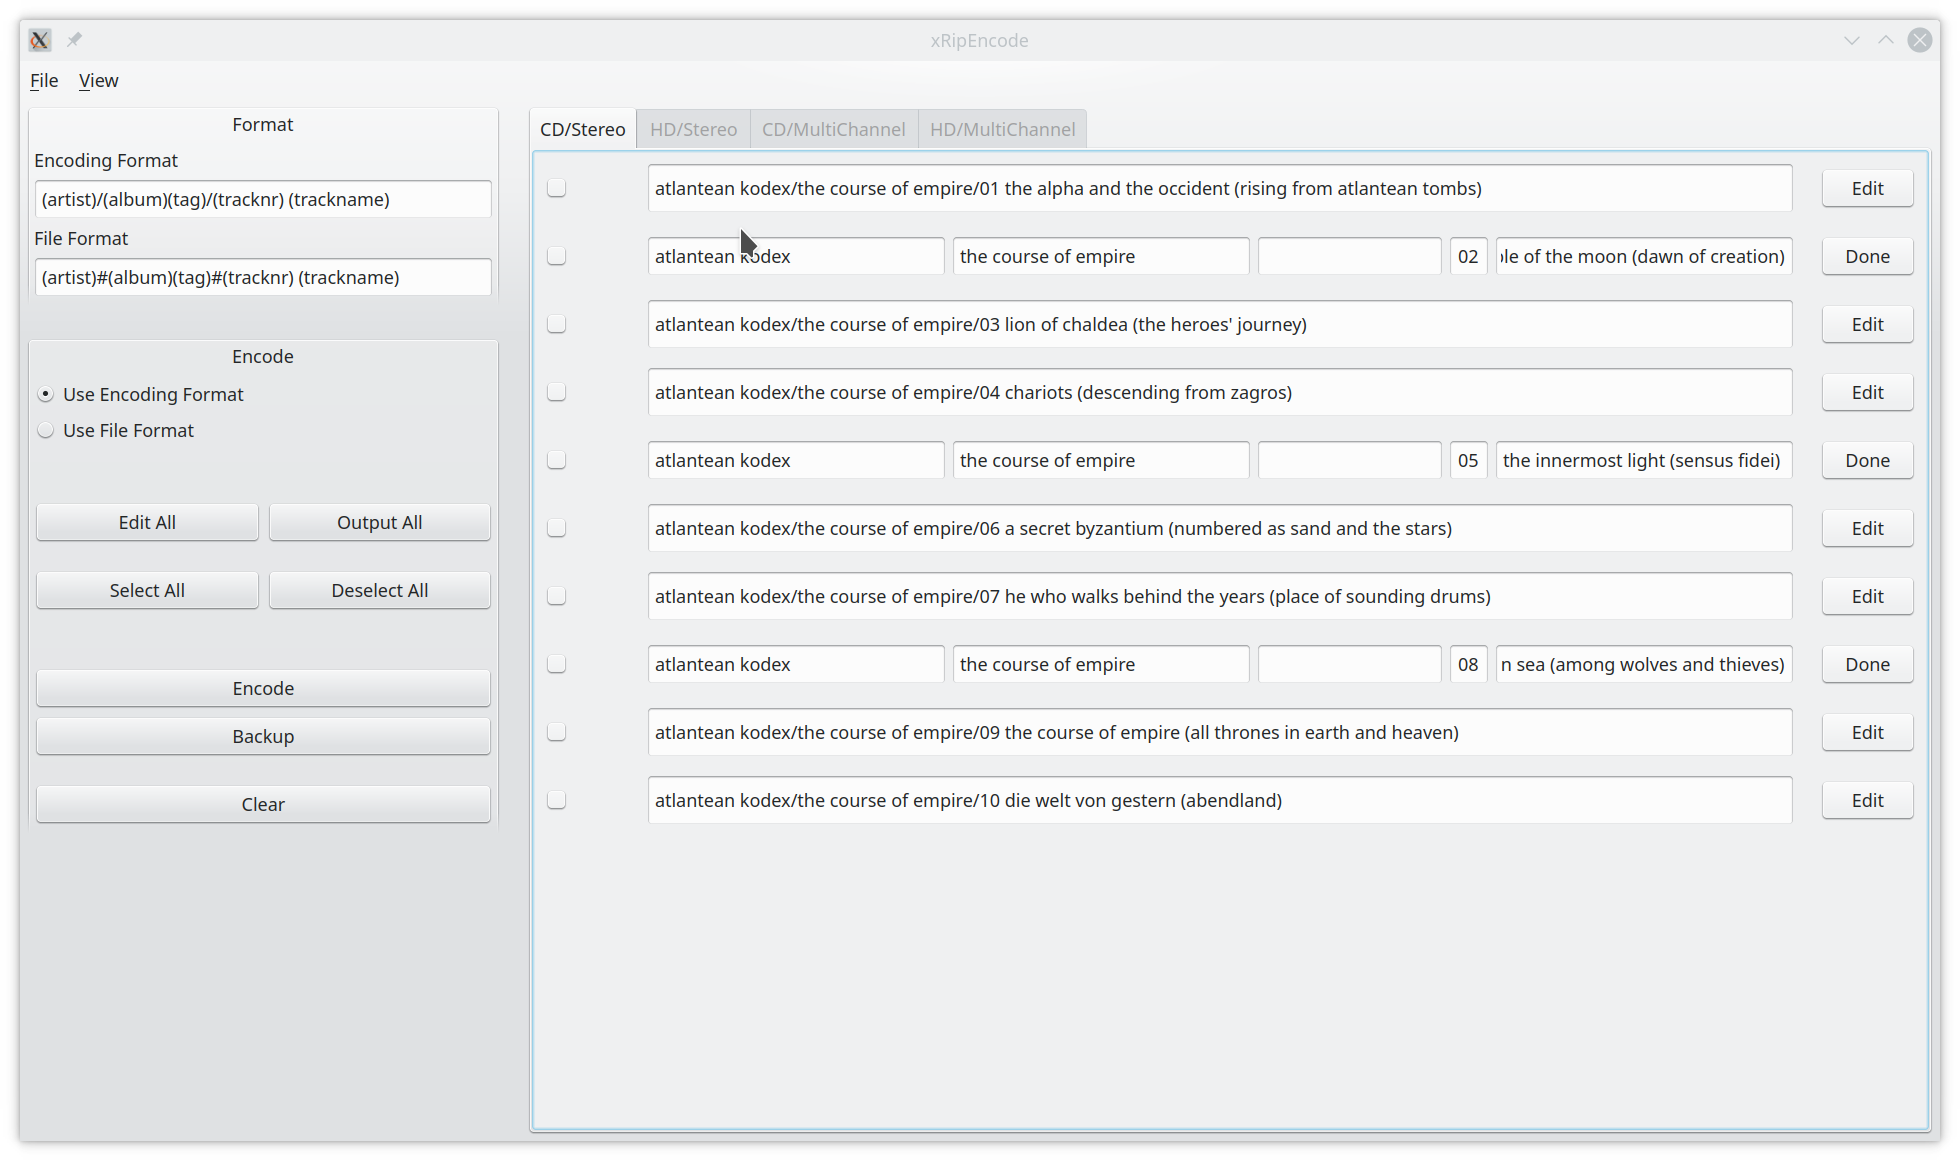
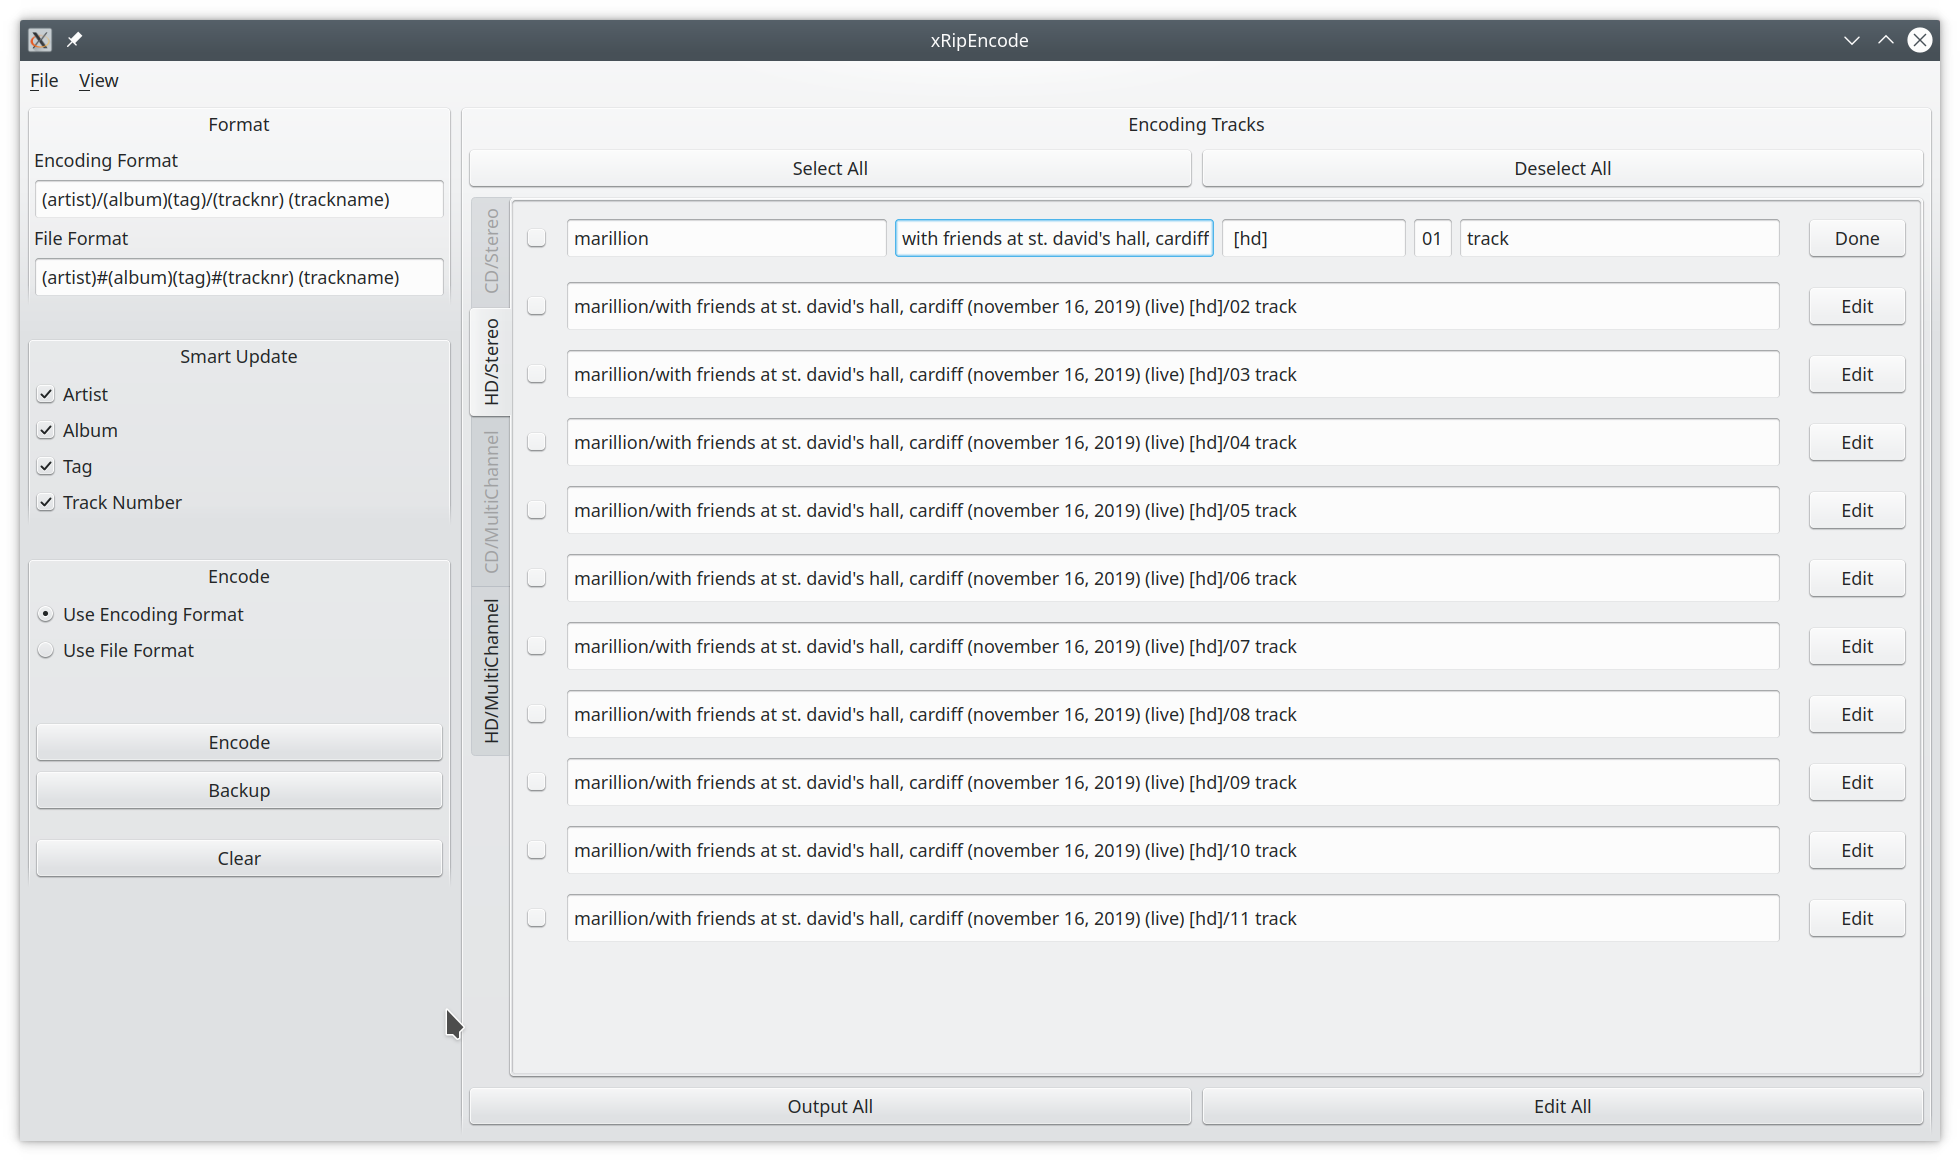
Update README, CHANGELOG and screenshots.

diff --git a/README.md b/README.md
@@ -11,7 +11,7 @@ encoding view.
 ## Audio CD View
 
 ![Screenshot Audio CD View](screenshots/xripencode_screenshot_audiocd_view_00.png)
-![Screenshot Audio CD View](screenshots/xripencode_screenshot_audiocd_view_01.png)
+![Screenshot Audio CD View (ripping)](screenshots/xripencode_screenshot_audiocd_view_01.png)
 
 The main screen of the audio CD view is simple audio CD ripper. Any audio CD in the system is detected 
 when pushing the *Detect* button. An automatic musicbrainz lookup is performed. This lookup can be repeated
@@ -26,7 +26,7 @@ be used to eject the audio CD.
 ## Movie File View
 
 ![Screenshot Encoding View](screenshots/xripencode_screenshot_moviefile_view_00.png)
-![Screenshot Encoding View](screenshots/xripencode_screenshot_moviefile_view_01.png)
+![Screenshot Encoding View (ripping)](screenshots/xripencode_screenshot_moviefile_view_01.png)
 
 The main screen of the movie file view is a ripper for movie files. The files can be split (using *mkvmerge*) into 
 tracks which are usually represented by the chapters. The file can be selected using the file dialog that is 
@@ -38,18 +38,22 @@ file and extract the selected audio streams. This extraction process is running 
 
 ## Encoding View
 
-![Screenshot Encoding View](screenshots/xripencode_screenshot_encoding_view_00.png)
-![Screenshot Encoding View](screenshots/xripencode_screenshot_encoding_view_01.png)
+![Screenshot Encoding View (updating)](screenshots/xripencode_screenshot_encoding_view_00.png)
+![Screenshot Encoding View (encoding)](screenshots/xripencode_screenshot_encoding_view_01.png)
 
 The main screen of the movie file view allows for easy encoding of the output created by the audio CD and the 
 movie file view. The tags for each file can be modified. The selected format (encoding, file) decides the file 
 name of the encoded output. The output is encoded as flac file if you press the *Encode* button and encoded as 
 wavpack file if the *Backup* button is pressed. All tracks of the current tab are removed if the *Clear* button
-is pressed.
+is pressed. The smart update functionality allows for an easy update of artist, album, quality/channel tag and 
+track number when selected in the corresponding check boxes. The smart update only works within encoding entries 
+that share the same job ID. Encoding entries that have a different job ID are separated by additional space in
+the UI.
 
 ## Known Issues
 
 While the tool is functional it is currently unstable in case of error or corner cases.
+No checks are currently performed in case file names match.
 
 ## Requirements
 

diff --git a/CHANGELOG.md b/CHANGELOG.md
@@ -1,5 +1,11 @@
 # Changelog
 
+## 0.2.0 - 2020-12-21
+
+- Update encoding view UI.
+- Add smart update feature for encoding view.
+- More error handling.
+
 ## 0.1.0 - 2020-12-07
 
 - Initial Release
